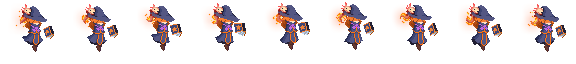
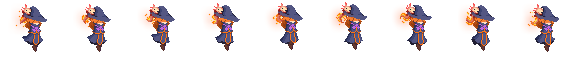
feat: Add npc collision and remove npc grimoire GFX

diff --git a/src/npc/mod.rs b/src/npc/mod.rs
@@ -1,4 +1,5 @@
 use bevy::prelude::*;
+use bevy_rapier2d::prelude::*;
 use bevy_trickfilm::prelude::*;
 
 use crate::{
@@ -41,6 +42,17 @@ fn spawn_npc(mut commands: Commands, bitmap: Res<BitMap>, assets: Res<GameAssets
         ))
         .id();
 
+    let collider = commands
+        .spawn((
+            Collider::ball(8.0),
+            ActiveEvents::COLLISION_EVENTS,
+            CollisionGroups::default(),
+            TransformBundle::from_transform(Transform::from_translation(Vec3::new(
+                0.0, -20.0, 0.0,
+            ))),
+        ))
+        .id();
+
     commands
         .spawn((
             Npc,
@@ -52,7 +64,7 @@ fn spawn_npc(mut commands: Commands, bitmap: Res<BitMap>, assets: Res<GameAssets
                 ..default()
             },
         ))
-        .push_children(&[shadow]);
+        .push_children(&[collider, shadow]);
 }
 
 fn face_player(
